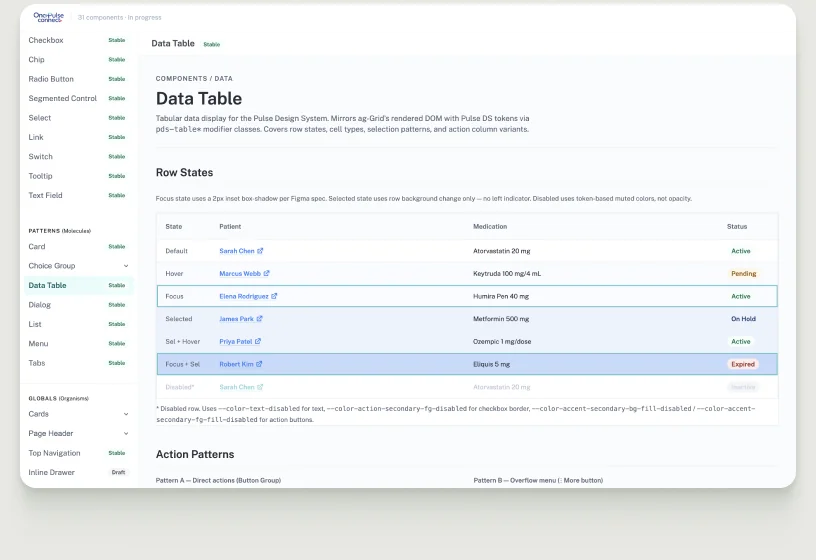
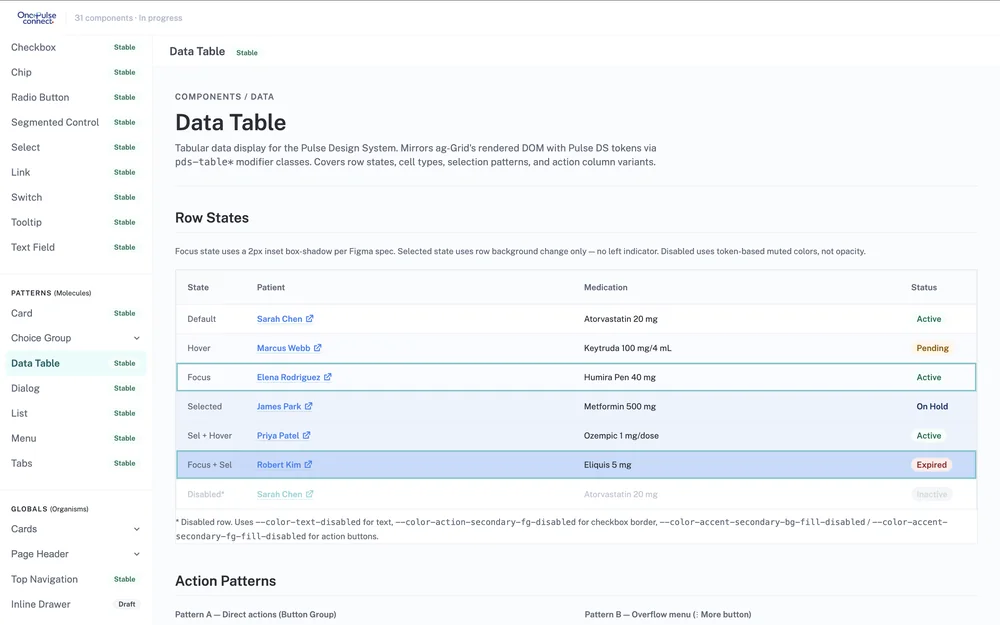
Fix ProjectRow image layout, header alignment, and typography
- .project-row__body/.project-row__image: replace the fixed 1fr/1fr grid
  with flex so the image sizes to its own content (max-width 500px) and
  the description fills the remainder, matching Figma (196:408). Dropped
  aspect-ratio: 1/1, which was cropping the real (landscape) screenshots
  into squares. Updated the 720px breakpoint to match (flex-direction:
  column instead of grid-template-columns: 1fr).
- --padding-image: corrected from --space-56 (56px) to --space-32 (32px),
  confirmed against Figma's image wrapper spec.
- .project-row__header: align-items flex-start -> center.
- .project-row__meta: flex-direction column -> row, align-items flex-end
  -> center, gap --gap-tight -> --gap-stack (16px) -- confirmed horizontal/
  centered/16px against Figma, not the previous vertical/4px layout. Also
  swapped the tag-chip/year markup order in project-row.js so the chip
  renders before the year, matching Figma's left-to-right order.
- .project-row__index: color --text-muted -> --accent-primary (the red
  "01"); .project-row__title: added a font-size: var(--font-size-24)
  override (32px -> 24px) scoped to this element rather than editing the
  shared .type-case-title class, since that composite class is treated as
  a type-scale source of truth even though nothing else uses it yet.
- New --text-tag token (--color-greenwhite-8), applied to .badge's text
  color (the shared tag-chip component, so every row's chip picks it up.
[…]

diff --git a/components/components.css b/components/components.css
@@ -133,17 +133,15 @@
 }
 
 .project-row__body {
-  display: grid;
-  grid-template-columns: minmax(0, 1fr) minmax(0, 1fr);
-  gap: var(--padding-section-x);
+  display: flex;
   align-items: start;
+  gap: var(--padding-section-x);
 }
 
 .project-row__image {
-  display: flex;
-  align-items: center;
-  justify-content: center;
-  aspect-ratio: 1 / 1;
+  flex: 0 0 auto;
+  max-width: 500px;
+  overflow: hidden;
   background: var(--bg-placeholder);
   padding: var(--padding-image);
 }
@@ -151,14 +149,16 @@
 .project-row__image-inner {
   display: block;
   width: 100%;
-  height: 100%;
+  height: auto;
   background: var(--bg-page);
   object-fit: cover;
+  border-radius: var(--radius-md);
+  box-shadow: var(--shadow-card);
 }
 
 .project-row__header {
   display: flex;
-  align-items: flex-start;
+  align-items: center;
   justify-content: space-between;
   gap: var(--gap-card);
 }
@@ -170,19 +170,19 @@
 }
 
 .project-row__index {
-  color: var(--text-muted);
+  color: var(--accent-primary);
 }
 
 .project-row__title {
   color: var(--text-primary);
   margin: 0;
+  font-size: var(--font-size-24);
 }
 
 .project-row__meta {
   display: flex;
-  flex-direction: column;
-  align-items: flex-end;
-  gap: var(--gap-tight);
+  align-items: center;
+  gap: var(--gap-stack);
 }
 
 .project-row__year {
@@ -194,10 +194,12 @@
   padding: var(--gap-tight) var(--gap-inline);
   border: 1px solid var(--border-muted);
   border-radius: var(--space-4);
-  color: var(--text-label);
+  color: var(--text-tag);
 }
 
 .project-row__description {
+  flex: 1 1 0;
+  min-width: 0;
   color: var(--text-primary);
   margin: 0;
 }
@@ -252,7 +254,11 @@
 
 @media (max-width: 720px) {
   .project-row__body {
-    grid-template-columns: 1fr;
+    flex-direction: column;
+  }
+
+  .project-row__image {
+    max-width: none;
   }
 
   .project-row__header {

diff --git a/tokens.css b/tokens.css
@@ -172,6 +172,7 @@
 
   /* --- Radius primitives --- */
   --radius-full: 99px; /* pill/fully-rounded — safely larger than half the height of anything it's applied to */
+  --radius-md: var(--space-8); /* case-study row image corners, confirmed against Figma */
 
   /* --- Spacing primitives --- */
   --space-4: 4px;
@@ -258,6 +259,7 @@
   --text-hero-heading: var(--color-cosmos-9-5); /* NEW */
   --text-hero-subhead: var(--color-greenwhite-8); /* NEW — the hero's second line ("I am a product designer..."), confirmed against live Figma (196:383) */
   --text-on-inverse: var(--color-greenwhite-1); /* UNUSED as of the ProjectRow hover redesign (239:186) — hover no longer changes text/border color, only background. Kept in case a genuinely dark inverse surface comes back. */
+  --text-tag: var(--color-greenwhite-8);
 
   /* --- Color: accent --- */
   --accent-primary: var(--color-cosmos-7);
@@ -281,8 +283,11 @@
   --padding-section-x: var(--space-48);
   --padding-card-y: var(--space-36);
   --padding-section-y: var(--space-96);
-  --padding-image: var(--space-56);
+  --padding-image: var(--space-32);
   --padding-hero-y: var(--space-160); /* deliberate override, not a Figma value — Figma's node 196:383 measures 180px, but 160px was chosen instead before committing. Fifth value for this token (96 → 160 → 200 → 128 → 180 → 160); if it changes again, verify against Figma before assuming drift, and note whether it's an intentional override like this one. */
+
+  /* --- Shadows --- */
+  --shadow-card: 0 2px 4px rgba(0, 0, 0, 0.1), 0 15px 9px rgba(0, 0, 0, 0.05), 0 41px 11px rgba(0, 0, 0, 0.02); /* 3-layer approximation of Figma's 5-stacked-shadow card spec — reads the same visually. Applied via CSS instead of baked into image assets so it stays themeable and doesn't bleed into the source PNG/WebP crop. */
 }
 
 

diff --git a/components/project-row.js b/components/project-row.js
@@ -45,8 +45,8 @@ const projectRowsHtml = projectRows
       <h3 class="project-row__title type-case-title">${row.title}</h3>
     </div>
     <div class="project-row__meta">
-      <span class="project-row__year type-meta">${row.year}</span>
       <span class="badge type-label-secondary">${row.type}</span>
+      <span class="project-row__year type-meta">${row.year}</span>
     </div>
   </div>
   <div class="project-row__body">
